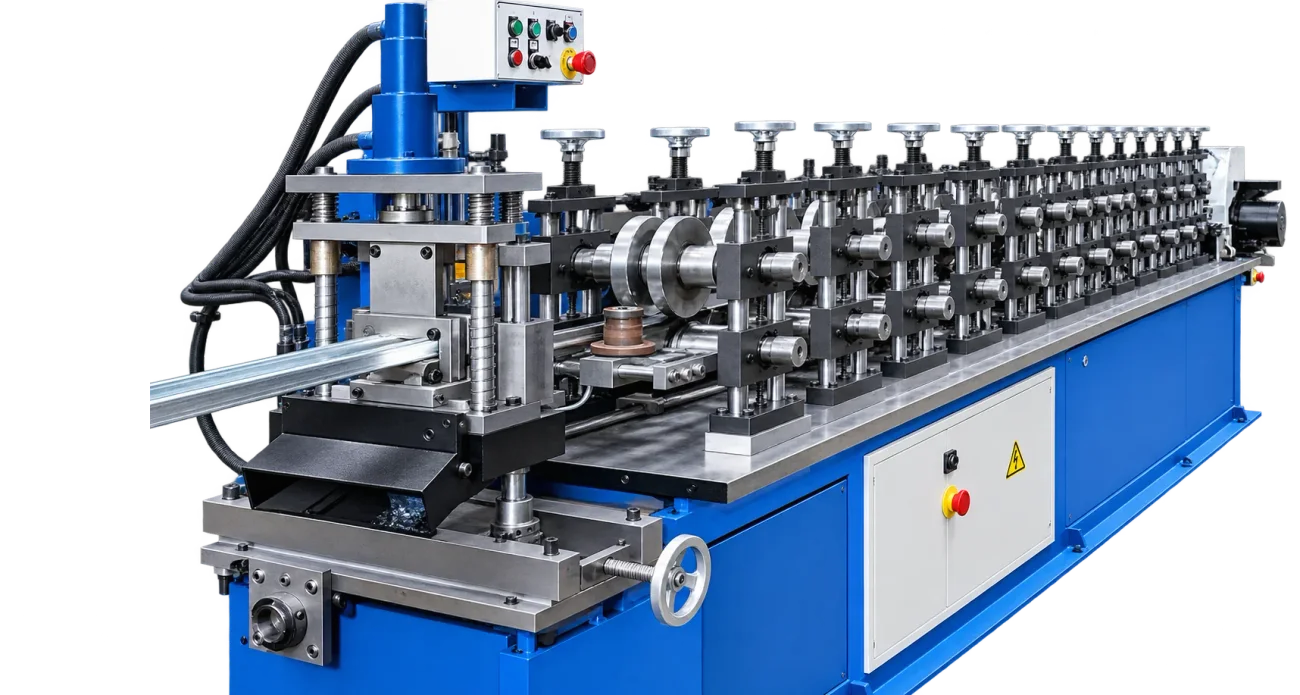
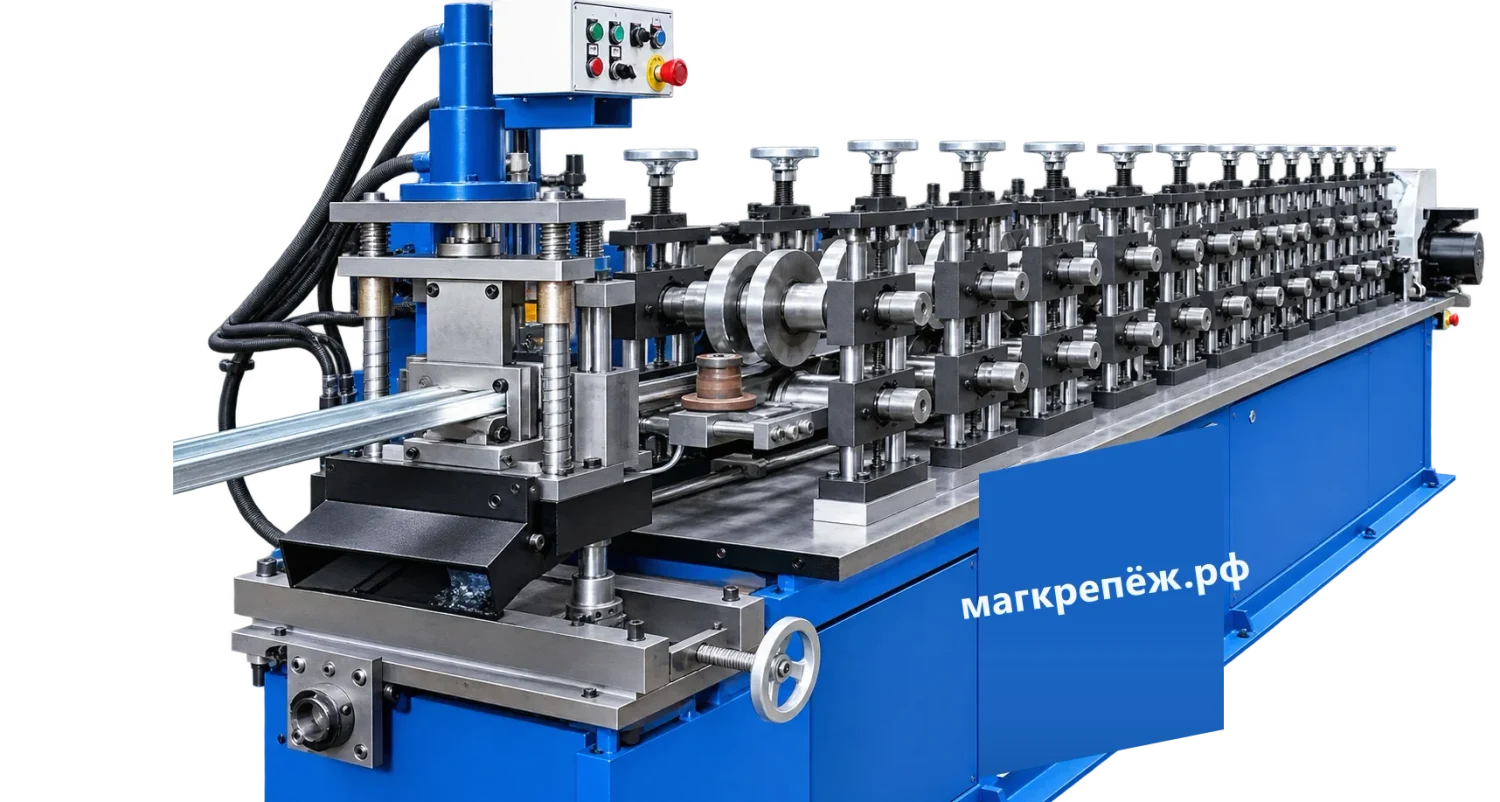
Станок крупнее, щиток закрашен, на корпусе надпись магкрепёж.рф

Changed region(s): [[0.6462, 0.5137, 0.8308, 0.9669]]

diff --git a/index.html b/index.html
@@ -130,7 +130,7 @@ p{margin:0}
 /* clipping lives on the section so the profile can travel in from the page corner,
    not from the edge of its own column - and the page still never scrolls sideways */
 .hero{padding:clamp(40px,6vw,72px) 0 clamp(36px,5vw,60px);overflow:hidden}
-.hero-in{display:grid;grid-template-columns:minmax(0,1.04fr) minmax(0,1fr);gap:clamp(28px,5vw,60px);align-items:center}
+.hero-in{display:grid;grid-template-columns:minmax(0,0.82fr) minmax(0,1.35fr);gap:clamp(20px,3vw,40px);align-items:center}
 .hero h1{font-size:clamp(28px,3.5vw,42px)}
 .hero-sub{margin-top:20px;font-size:clamp(16.5px,1.5vw,19px);color:var(--ink-2);max-width:36ch}
 .hero-cta{margin-top:30px;display:flex;gap:12px;flex-wrap:wrap}
@@ -141,7 +141,8 @@ p{margin:0}
 
 /* the roll-forming line, with the finished profile fed out from under it.
    the rail is a separate cut-out so it can travel along its own axis. */
-.mach{position:relative;width:100%}
+/* the line runs wider than its column and off the right edge, so it reads big */
+.mach{position:relative;width:126%;margin-right:-26%}
 .mach-body{position:relative;z-index:2;width:100%;height:auto;display:block}
 .mach-rail{position:absolute;z-index:1;left:0;top:49.62%;width:11.54%;height:auto;display:block}
 
@@ -423,6 +424,7 @@ table.sizes .dim{font-variant-numeric:tabular-nums;white-space:nowrap}
   .hero-in,.ct,.terms,.offer,.calc{grid-template-columns:minmax(0,1fr)}
   /* on phones the profile leads: it is the first thing in view */
   .hero-img{order:-1;margin-bottom:8px}
+  .mach{width:112%;margin-right:-12%}
   /* on phones the profile leads: it is the first thing on screen, then the pitch */
   .hero-img{order:-1;margin-bottom:6px}
   .hero-sub{max-width:none}
